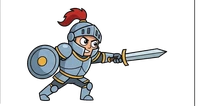
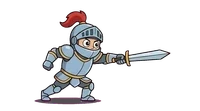
fix: knight hit/attack sprites flipped, world map positions swapped

Changed region(s): [[0.12, 0.0566, 0.87, 0.9623], [0.96, 0.0, 0.99, 1.0], [0.0, 0.0, 0.03, 0.9623]]

diff --git a/src/screens/WorldMapScreen.jsx b/src/screens/WorldMapScreen.jsx
@@ -323,13 +323,13 @@ function RegionBand({ world, worldIndex, status, trophy, score, delay, onTap, is
       {isCurrent && (
         <div style={{
           position: 'absolute', inset: 0, zIndex: 2, pointerEvents: 'none',
-          display: 'flex', alignItems: 'flex-end', justifyContent: 'center', gap: 12,
+          display: 'flex', flexDirection: 'row', alignItems: 'flex-end', justifyContent: 'center', gap: 12,
         }}>
           <div style={{ transform: 'scale(0.46) scaleX(-1)', transformOrigin: 'center bottom' }}>
-            <KnightCharacter phase="idle" hitKey={0} />
+            <EnemyCharacter phase="idle" enemy={world.enemy} hitKey={0} />
           </div>
           <div style={{ transform: 'scale(0.46)', transformOrigin: 'center bottom' }}>
-            <EnemyCharacter phase="idle" enemy={world.enemy} hitKey={0} />
+            <KnightCharacter phase="idle" hitKey={0} />
           </div>
         </div>
       )}
